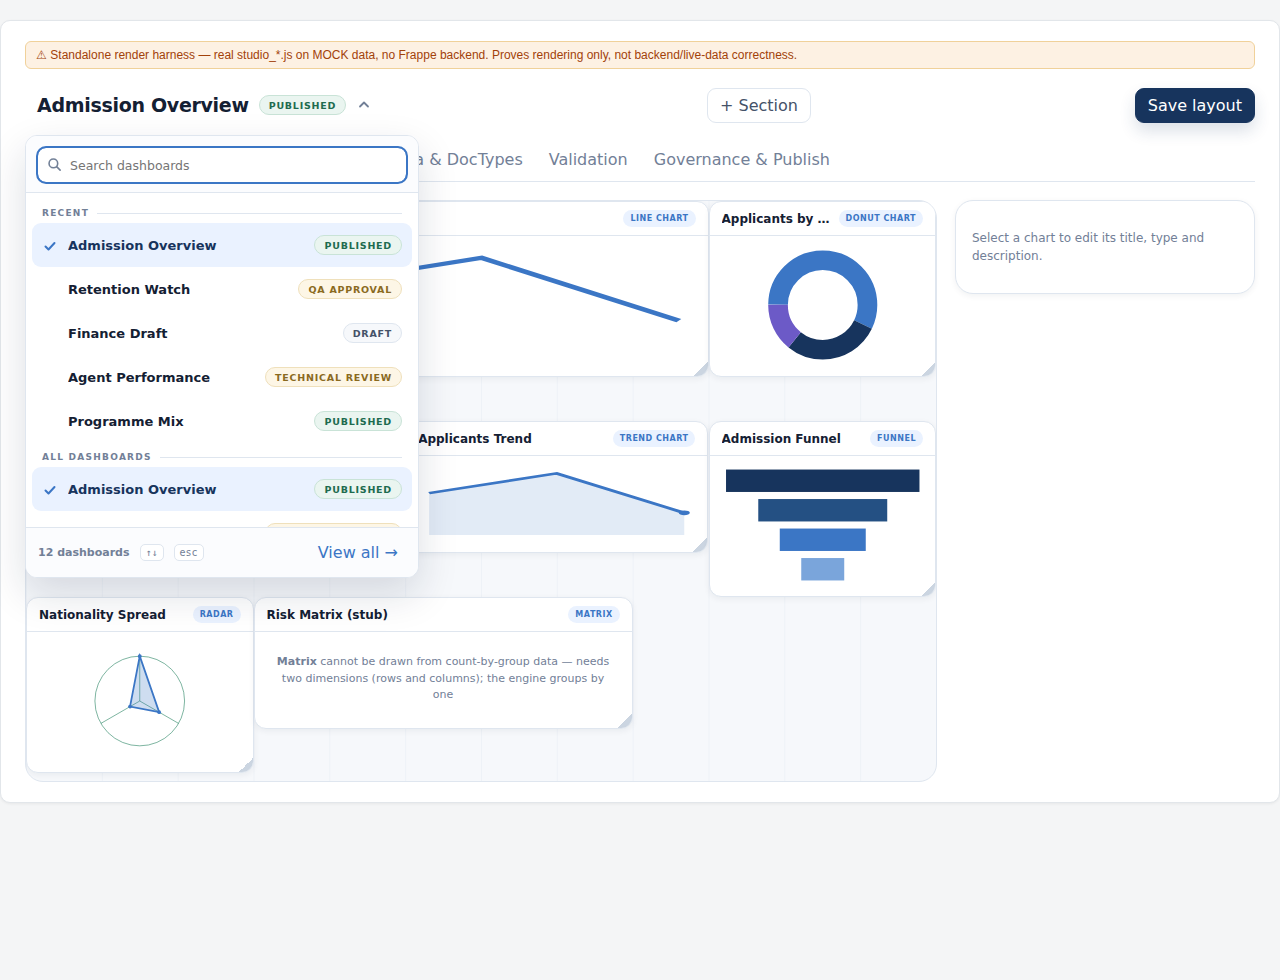
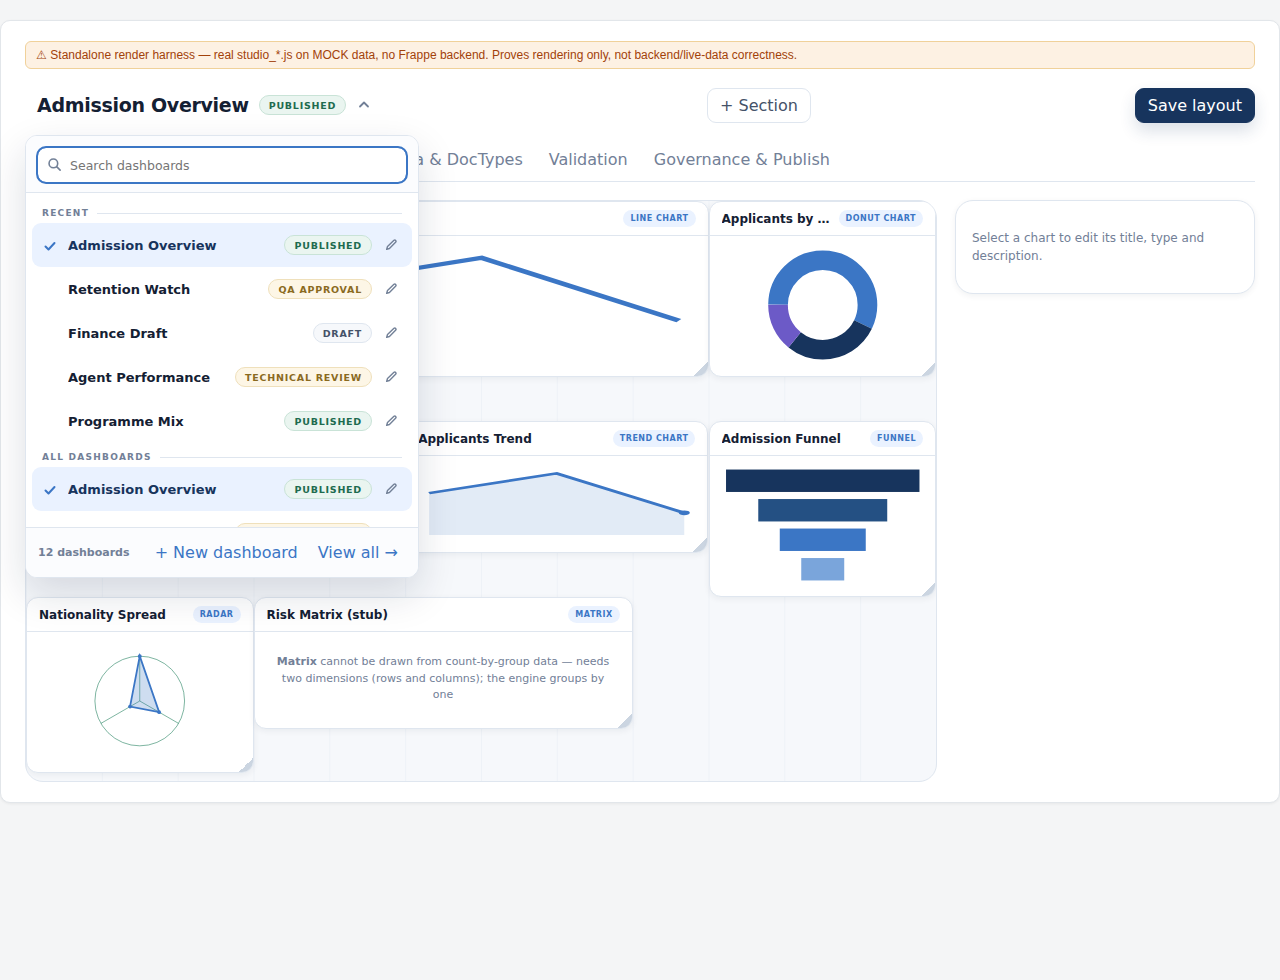
Move dashboard creation into the picker, and add a per-row edit link
Two changes; they landed together because both reshape the same picker row and
footer. Splitting them after the fact would mean rewriting main, so the message
covers both.

1. The page header's primary "New Dashboard" action duplicated the picker's own
"+ New dashboard", so it goes. That also orphaned the `app` variable in the page
controller, which existed only to serve its callback.

That button was the stated justification for the footer swapping
"+ New dashboard" out for "View all →" above 8 dashboards, so the swap goes too:
without a fallback it would strand creation behind a trip to the record list for
exactly the people with the most dashboards. Both links now show in every state.
Frappe's list view does carry a native New button, so leaning on "View all →"
was the alternative — but it costs a page load and a context switch for the
commonest action available while the picker is already open.

Both links plus the ↑↓/esc keycaps overflow the 392px panel, so the keycaps were
dropped rather than the link: they only advertise behaviour that works whether
or not it is advertised, while the link is the only way to do the thing.

2. Each row gains a pencil linking to that dashboard's DS Dashboard record form
in a new tab — description, publish target, reviewer and review comments are not
editable anywhere in the Studio, and until now reaching that form meant knowing
the DocType URL.

This forced a restructure rather than an added child: the row is a <button>, and
[…]

diff --git a/dashboard_studio/public/js/studio_app.js b/dashboard_studio/public/js/studio_app.js
@@ -107,6 +107,7 @@
   // Geometry taken from prototypes/ds_picker_revised.html.
   var CHEVRON_PATH = "M4 6.5 8 10.5l4-4";
   var TICK_PATH = "M3.5 8.5 6.5 11.5 12.5 5";
+  var PENCIL_PATH = "M11.4 2.6a1.5 1.5 0 0 1 2.1 2.1L6.2 12 3 13l1-3.2 7.4-7.2z";
 
   // A real 16px icon, not a text glyph — a caret character sitting next to a
   // bold title reads as stray punctuation.
@@ -282,7 +283,13 @@
         }
         group.items.forEach(function (d) {
           var isCurrent = d.name === current;
-          var row = el("button", "dss-picker-row" + (isCurrent ? " is-current" : ""));
+          // Wrapper, because the edit link cannot live inside the row: nesting
+          // an <a> in a <button> is invalid and browsers handle it however they
+          // like. As siblings they each get their own click, with nothing to
+          // suppress.
+          var item = el("div", "dss-picker-item" + (isCurrent ? " is-current" : ""));
+
+          var row = el("button", "dss-picker-row");
           row.setAttribute("role", "option");
           row.setAttribute("aria-selected", isCurrent ? "true" : "false");
           // A tick, not just a pale fill: colour alone is not an accessible
@@ -296,7 +303,23 @@
             self.togglePicker(false);
             if (!isCurrent) self.openDashboard(d.name);
           });
-          listHost.appendChild(row);
+          item.appendChild(row);
+
+          // The record form holds what the Studio does not expose — description,
+          // publish target, reviewer, review comments. A real link rather than
+          // window.open, so ctrl/middle-click behave as expected and the person
+          // keeps their place here.
+          var edit = el("a", "dss-picker-edit");
+          edit.href = core.dashboardFormUrl(d.name);
+          edit.target = "_blank";
+          edit.rel = "noopener";
+          edit.title = "Edit this dashboard's record (opens a new tab)";
+          edit.setAttribute("aria-label",
+            "Edit the record for " + core.dashboardTitle(d) + " (opens a new tab)");
+          edit.appendChild(icon(PENCIL_PATH, "dss-pencil", "1.6"));
+          item.appendChild(edit);
+
+          listHost.appendChild(item);
         });
       });
 
@@ -306,23 +329,19 @@
         model.shown === model.total
           ? model.total + (model.total === 1 ? " dashboard" : " dashboards")
           : model.shown + " of " + model.total));
-      // Keycap hints while browsing a long list, where arrowing through it is a
-      // realistic way to use it. Not while searching — there the keyboard is
-      // already in the search box.
-      if (model.searchable && !model.query) {
-        footer.appendChild(el("span", "dss-picker-kbd", "↑↓"));
-        footer.appendChild(el("span", "dss-picker-kbd", "esc"));
-      }
-
-      // One link, never two — 392px does not hold both, and each state has an
-      // obvious single next step. Past the threshold that is "get out to the
-      // real list", because the picker should not grow into one; on a short
-      // list, or when a search found nothing, it is "make one".
+      // "+ New dashboard" stays put in every state. The reference mockup swaps
+      // it out for "View all →" on a long list, but that was only safe while a
+      // "New Dashboard" button existed in the page header; without it, the swap
+      // would strand creation behind a trip to the record list for exactly the
+      // people with the most dashboards.
       //
-      // Creating is not lost at scale: the Desk page keeps a primary "New
-      // Dashboard" action in its header, which is where the reference mockup
-      // puts it too.
+      // Both links plus the ↑↓/esc keycaps overflow 392px, so the keycaps went:
+      // they only advertise behaviour that works either way, whereas the link
+      // is the only way to do the thing.
       var actions = el("div", "dss-picker-actions");
+      actions.appendChild(self.pickerCreateButton());
+      // Past the threshold the picker stops trying to be a list view and hands
+      // bulk work to the real one.
       if (model.searchable && model.shown) {
         var all = el("button", "dss-picker-link", "View all →");
         all.addEventListener("click", function () {
@@ -331,8 +350,6 @@
           else toast("The DS Dashboard list needs the server.");
         });
         actions.appendChild(all);
-      } else {
-        actions.appendChild(self.pickerCreateButton());
       }
       footer.appendChild(actions);
     }
@@ -393,7 +410,7 @@
       search.focus();
     } else {
       var list = rows();
-      var current = listHost.querySelector(".dss-picker-row.is-current");
+      var current = listHost.querySelector(".dss-picker-item.is-current .dss-picker-row");
       (current || list[0] || panel).focus();
     }
   };

diff --git a/dashboard_studio/public/css/studio.css b/dashboard_studio/public/css/studio.css
@@ -96,14 +96,24 @@
 .dss-picker-group-label { font-size: 9px; font-weight: 800; text-transform: uppercase;
   letter-spacing: .14em; color: var(--dss-muted); }
 .dss-picker-group-rule { flex: 1; height: 1px; background: var(--dss-line); }
-.dss-picker-row { display: flex; align-items: center; gap: 11px; width: 100%; min-height: 44px;
-  padding: 0 10px; border: 0; border-radius: var(--dss-r-sm); background: none; cursor: pointer;
-  text-align: left; font: inherit; color: var(--dss-ink); }
-.dss-picker-row:hover { background: var(--dss-surface-2); }
-.dss-picker-row:focus-visible { outline: 2px solid var(--dss-blue); outline-offset: -2px; }
+/* Row + edit link are siblings, not nested: an <a> inside a <button> is invalid
+   HTML. The wrapper carries the background so the fill spans both. */
+.dss-picker-item { display: flex; align-items: center; border-radius: var(--dss-r-sm); }
+.dss-picker-item:hover { background: var(--dss-surface-2); }
 /* The pale fill reinforces the tick; it is never the only signal. */
-.dss-picker-row.is-current { background: var(--dss-blue-100); }
-.dss-picker-row.is-current .dss-picker-name { color: var(--dss-navy); font-weight: 700; }
+.dss-picker-item.is-current { background: var(--dss-blue-100); }
+.dss-picker-item.is-current .dss-picker-name { color: var(--dss-navy); font-weight: 700; }
+.dss-picker-row { display: flex; align-items: center; gap: 11px; flex: 1; min-width: 0;
+  min-height: 44px; padding: 0 4px 0 10px; border: 0; border-radius: var(--dss-r-sm);
+  background: none; cursor: pointer; text-align: left; font: inherit; color: var(--dss-ink); }
+.dss-picker-row:focus-visible { outline: 2px solid var(--dss-blue); outline-offset: -2px; }
+/* Quiet until wanted — the row's job is switching, this one is a side door. */
+.dss-picker-edit { flex: none; display: flex; align-items: center; justify-content: center;
+  width: 30px; height: 30px; margin-right: 6px; border-radius: var(--dss-r-sm);
+  color: var(--dss-muted); }
+.dss-picker-edit:hover { background: var(--dss-surface-3); color: var(--dss-blue); }
+.dss-picker-edit:focus-visible { outline: 2px solid var(--dss-blue); outline-offset: -2px; }
+.dss-pencil { width: 14px; height: 14px; }
 .dss-picker-mark { flex: none; width: 15px; height: 15px; color: var(--dss-blue); }
 /* The name dominates; the pill is smaller and quieter so the eye settles once. */
 .dss-picker-name { flex: 1; min-width: 0; font-size: 13px; font-weight: 600;
@@ -125,10 +135,6 @@
   padding: 9px 12px; border-top: 1px solid var(--dss-line); background: #fbfcfe; }
 .dss-picker-count { font-size: 11px; font-weight: 600; color: var(--dss-muted);
   white-space: nowrap; }
-/* Keycap hints, shown only once the list is long enough to need arrowing. */
-.dss-picker-kbd { font-family: ui-monospace, SFMono-Regular, Menlo, monospace; font-size: 10px;
-  color: var(--dss-muted); border: 1px solid var(--dss-line); border-radius: 5px;
-  padding: 2px 5px; background: var(--dss-surface); }
 /* Pushed to the right edge, away from the count. */
 .dss-picker-actions { display: flex; align-items: center; gap: 4px; margin-left: auto; }
 .dss-picker-link { border: 0; background: none; padding: 6px 8px; cursor: pointer;

diff --git a/dashboard_studio/dashboard_studio/page/dashboard_studio/dashboard_studio.js b/dashboard_studio/dashboard_studio/page/dashboard_studio/dashboard_studio.js
@@ -5,13 +5,8 @@ frappe.pages["dashboard-studio"].on_page_load = function (wrapper) {
     single_column: true,
   });
 
-  let app = null;
-  // Creates a real DS Dashboard and opens it in the editor. Deliberately not
-  // frappe.new_doc() — that navigates away to the standard form and leaves the
-  // studio behind.
-  page.set_primary_action(__("New Dashboard"), () => {
-    if (app) app.newDashboard();
-  });
+  // No primary action here: creating a dashboard lives in the picker's own
+  // "+ New dashboard", and a header button duplicated it.
 
   const mount = document.createElement("div");
   // page.body is a jQuery object in Frappe's page API, not a raw DOM node —
@@ -37,7 +32,7 @@ frappe.pages["dashboard-studio"].on_page_load = function (wrapper) {
       // The route segment is already the dashboard, so a migration project
       // arrives as a query param: /app/dashboard-studio?project=<name>
       const project = new URLSearchParams(window.location.search).get("project");
-      app = window.DSStudioApp.mount(mount, { dashboard, project });
+      window.DSStudioApp.mount(mount, { dashboard, project });
     }
   );
 };

diff --git a/dashboard_studio/public/js/studio_core.js b/dashboard_studio/public/js/studio_core.js
@@ -287,6 +287,13 @@
     };
   }
 
+  // The DS Dashboard record form for a dashboard. Names are titles (the DocType
+  // is autonamed field:dashboard_title), so they routinely contain spaces and
+  // may contain a slash — both have to be encoded or the path breaks.
+  function dashboardFormUrl(name) {
+    return "/app/ds-dashboard/" + encodeURIComponent(name);
+  }
+
   // Every row the picker will render, in display order. This is what the
   // keyboard walks — group headers are labels, not stops. A dashboard listed
   // under both Recent and All appears twice, because it is two rows on screen.
@@ -437,6 +444,7 @@
     pickerModel: pickerModel,
     pickerRows: pickerRows,
     dashboardTitle: dashboardTitle,
+    dashboardFormUrl: dashboardFormUrl,
     PICKER_SCALE_THRESHOLD: PICKER_SCALE_THRESHOLD,
     PICKER_RECENT_COUNT: PICKER_RECENT_COUNT,
     VALIDATION_STATUSES: VALIDATION_STATUSES,

diff --git a/dashboard_studio/public/js/studio_core.test.js b/dashboard_studio/public/js/studio_core.test.js
@@ -296,4 +296,14 @@ assert.strictEqual(empty.total, 0);
 assert.strictEqual(empty.searchable, false);
 assert.strictEqual(core.pickerRows(empty).length, 0);
 
+// ---- dashboardFormUrl: link out to the DS Dashboard record form ----
+//
+// DS Dashboard is autonamed field:dashboard_title, so every name is a human
+// title and spaces are the norm, not the edge case.
+assert.strictEqual(core.dashboardFormUrl("Admission Overview"),
+  "/app/ds-dashboard/Admission%20Overview", "spaces are encoded");
+assert.strictEqual(core.dashboardFormUrl("Fees / Refunds"),
+  "/app/ds-dashboard/Fees%20%2F%20Refunds",
+  "a slash is encoded, not left to split the path");
+
 console.log("studio_core.test.js — all assertions passed");
